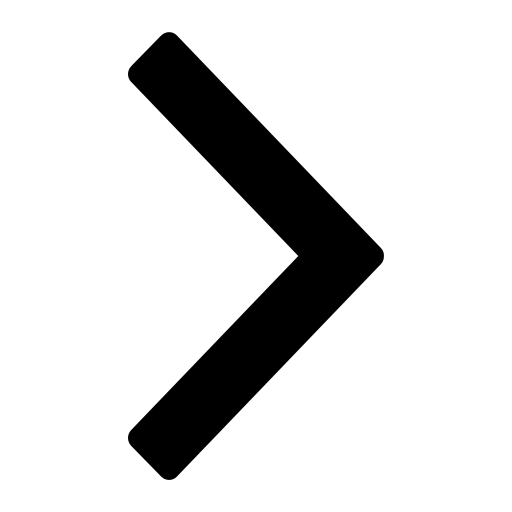
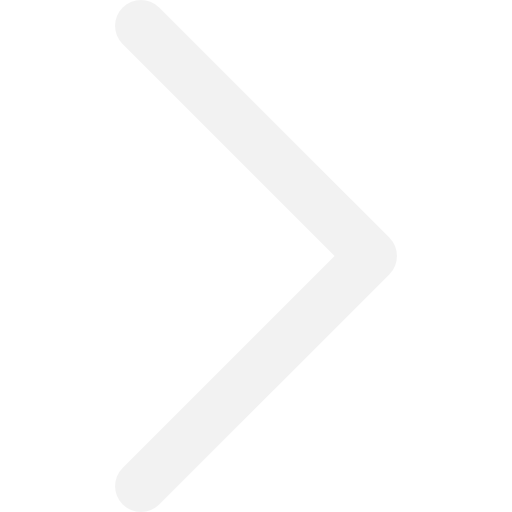
enhanced bottom scroller

Changed region(s): [[0.25, 0.0625, 0.75, 0.9375]]

diff --git a/index.html b/index.html
@@ -9,10 +9,10 @@
 	<script>
 		function scrollRightt(){
 			//document.getElementById('content').scrollTop=980;
-			$('#content').animate({scrollTop: 980}, 1000);
+			$('#content').animate({scrollLeft: 2880}, 500);
 		}
 		function scrollLeftt(){
-			$('#content').animate({scrollTop: 0}, 1000);
+			$('#content').animate({scrollLeft: 0}, 500);
 		}
 	</script>
 </head>
@@ -30,17 +30,17 @@
 	    	</div>
 	    </div>
 
-		<div class="outer-container">
+		<!-- <div class="outer-container">
 			<div class="inner-container">
 		    	<div class="element" style="visibility:hidden">
-					<div><img class="imge" src="images/view-from-boat.jpg"/></div>
-					<div><img class="imge" src="images/over-the-mountain.jpg"/></div>
-					<div><img class="imge" src="images/yellow-cab-newyork.jpg"/></div>
-					<div><img class="imge" src="images/serenity.jpg"/></div>
-					<div><img class="imge" src="images/untrodden.jpg"/></div>
-					<div><img class="imge" src="images/jungfrau.jpg"/></div>
-					<div><img class="imge" src="images/hennessey-venom-f5.jpg"/></div>
-					<div><img class="imge" src="images/long-ride.jpg"/></div>
+					<div class="imge" src="images/view-from-boat.jpg"/></div>
+					<div class="imge" src="images/over-the-mountain.jpg"/></div>
+					<div class="imge" src="images/yellow-cab-newyork.jpg"/></div>
+					<div class="imge" src="images/serenity.jpg"/></div>
+					<div class="imge" src="images/untrodden.jpg"/></div>
+					<div class="imge" src="images/jungfrau.jpg"/></div>
+					<div class="imge" src="images/hennessey-venom-f5.jpg"/></div>
+					<div class="imge" src="images/long-ride.jpg"/></div>
 				</div>
 			</div>
 		</div>
@@ -54,20 +54,26 @@
 		    <div class="slide"><img class="img" src="images/jungfrau.jpg"/></div>
 		    <div class="slide"><img class="img" src="images/hennessey-venom-f5.jpg"/></div>
 		    <div class="slide"><img class="img" src="images/long-ride.jpg"/></div>
-		</div>
+		</div> -->
 
-		<img id="left" src="images/right.png" onclick="scrollLeftt()">
-		<div id="content" class="horizontal-scroll-wrapper" style="visibility:">
-			<div><img class="img" src="images/view-from-boat.jpg"/></div>
-			<div><img class="img" src="images/over-the-mountain.jpg"/></div>
-			<div><img class="img" src="images/yellow-cab-newyork.jpg"/></div>
-			<div><img class="img" src="images/serenity.jpg"/></div>
-			<div><img class="img" src="images/untrodden.jpg"/></div>
-			<div><img class="img" src="images/jungfrau.jpg"/></div>
-			<div><img class="img" src="images/hennessey-venom-f5.jpg"/></div>
-			<div><img class="img" src="images/long-ride.jpg"/></div>
+		<div class="scroller">
+			<div>
+				<div class="left" onclick="scrollLeftt()"></div>
+				<div id="content" class="horizontal-scroll-wrapper">
+					<div>
+						<div class="img" style="background: url(images/view-from-boat.jpg); background-size: cover; "></div>
+						<div class="img" style="background: url(images/over-the-mountain.jpg); background-size: cover; "></div>
+						<div class="img" style="background: url(images/yellow-cab-newyork.jpg); background-size: cover; "></div>
+						<div class="img" style="background: url(images/serenity.jpg); background-size: cover; "></div>
+						<div class="img" style="background: url(images/untrodden.jpg); background-size: cover; "></div>
+						<div class="img" style="background: url(images/jungfrau.jpg); background-size: cover; "></div>
+						<div class="img" style="background: url(images/hennessey-venom-f5.jpg); background-size: cover; "></div>
+						<div class="img" style="background: url(images/long-ride.jpg); background-size: cover; "></div>
+					</div>
+				</div>
+				<div class="right" onclick="scrollRightt()"></div>
+			</div>
 		</div>
-		<img id="right" src="images/right.png" onclick="scrollRightt()">
 	</div>
 </body>
 </html>

diff --git a/style.css b/style.css
@@ -1,4 +1,3 @@
-
 *{
 	padding:0px;
 	margin:0px;
@@ -10,17 +9,23 @@ body{
 	background: linear-gradient(75deg, #CAC7C8, #EAEAED);
 
 	padding-bottom: 100px; 
-	overflow: hidden;
 }
 
 #main{
 	background-color: white;
     width: 1080px;
-    height: 550px;
-    border-radius: 10px;
+	height: 924px;
+	
+	border-radius: 10px;
+	-moz-border-radius: 10px;
+	-webkit-border-radius: 10px;
+
+	box-sizing: border-box;
+	border-bottom: 10px solid #111111EE;
+
     margin: 40px auto;
-    position: relative; 
 }
+
 #header{
 	text-align: center;
 	font-family: sans-serif;
@@ -54,57 +59,98 @@ body{
     padding-right: 10px;
 }
 
-.img{
-	width:220px;
-	height:130px;
+.scroller{
+	width: 100%;
+	height: 270px;
+	background: #111111EE;
+
+	box-sizing: border-box;
 	padding-top: 15px;
+	text-align: center;
+}
+
+.img{
+	width:150px;
+	height:75px;
+
+	border: 0px solid blue;
+
+	border-radius: 3px;
+	-moz-border-radius: 3px;
+	-webkit-border-radius: 3px;
+
+    float:left;
+    margin-left: 20px;
+    padding: 40px;
+
+	margin: 40px 10px;
+}
+
+.img:first-of-type {
+    margin-left: 0;
 }
 
 .arw{
 	color:white;
 }
 
-.horizontal-scroll-wrapper {
-  width: 200px;
-  height: 980px;
-  overflow-y: auto;
-  overflow-x: hidden;
-  transform: rotate(-90deg);
-  position:absolute;
-  top: -40px;
-  left: 440px;
-  background-color: black;
-}
-
-.horizontal-scroll-wrapper > div {
-  width: 160px;
-  height: 305px;
-  transform: rotate(90deg);
-  margin: -60px 0px 0px -60px;
-}
-
-#right{
-	position: absolute;
-	top: 450px;
-	right: 8px;
+.left{
 	width: 35px;
-	height: 30px;
-	background-color: gray;
-}
-
-#left{
-	position: absolute;
-	top: 450px;
-	left: 8px;
-	width: 35px;
-	height: 30px;
+	height: 35px;
 	-webkit-transform: scaleX(-1);
     transform: scaleX(-1);
-    background-color: gray;
+	
+	background: url(images/right.png);
+	background-size: cover;
+	border: 0px solid red;
+	
+	display: inline-block;
+	vertical-align: top;
+
+	margin-top: 100px;
+	opacity: 0.8;
 }
 
+.horizontal-scroll-wrapper {
+  width: 940px;
+  height: 250px;
+  
+  overflow-y: hidden;
+  overflow-x: hidden;
+  background-color: transparent;
+
+  border: 0px solid red;
+
+  display: inline-block;
+  vertical-align: top;
+
+  margin-left: 20px;
+  margin-right: 20px;
+}
+
+
+.horizontal-scroll-wrapper > div{
+	width: 3000px;
+}
+
+.right{
+	width: 35px;
+	height: 35px;
+	
+	background: url(images/right.png);
+	background-size: cover;
+	border: 0px solid red;
+
+	display: inline-block;
+	vertical-align: top;
+
+	margin-top: 100px;
+	opacity: 0.8;
+}
+
+
 .block-container{
-	height: 340px;
+	height: 600px;
 	width: 100%;
 	text-align: center;
 	background-color: gray;
@@ -122,12 +168,9 @@ body{
 	 
 }
 
-
 .outer-container {
  width: 1080px;
  height: 200px;
- top: -30px;
- left: 0px;
 }
  
 .element{
